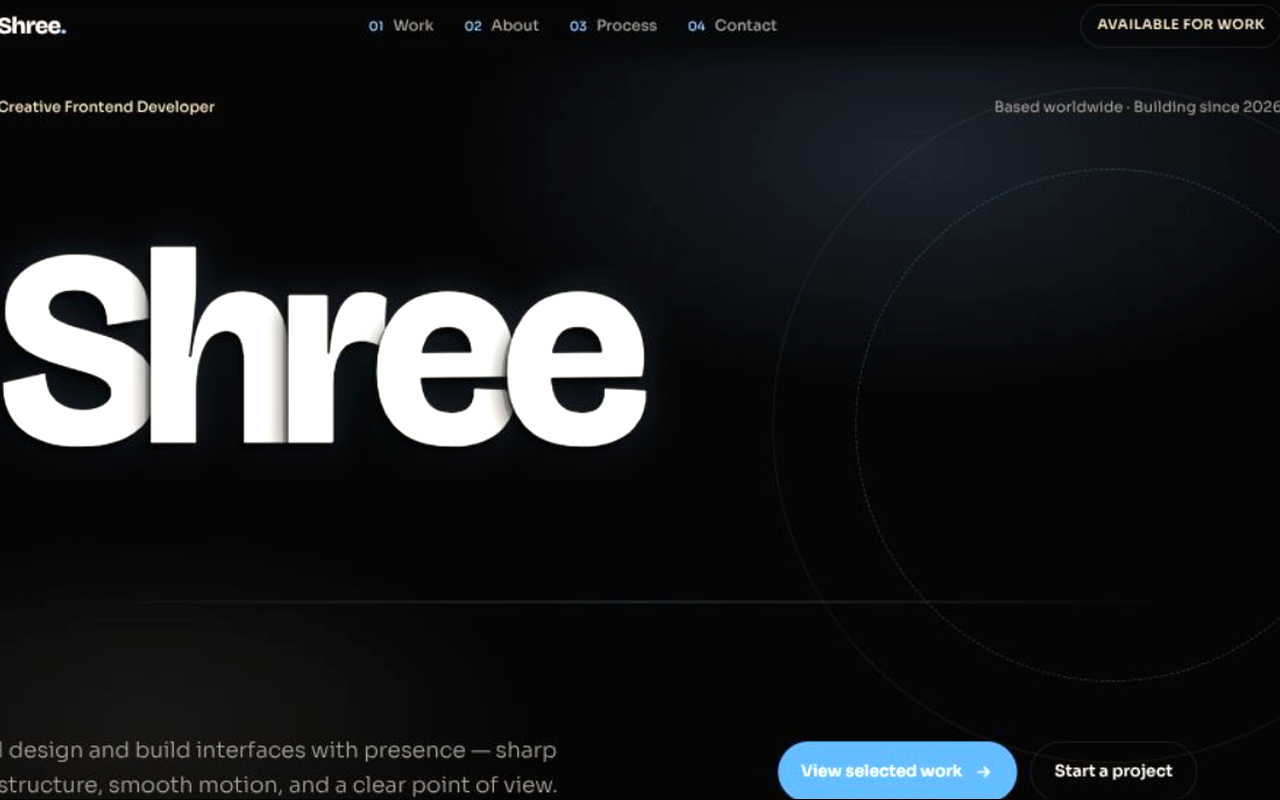
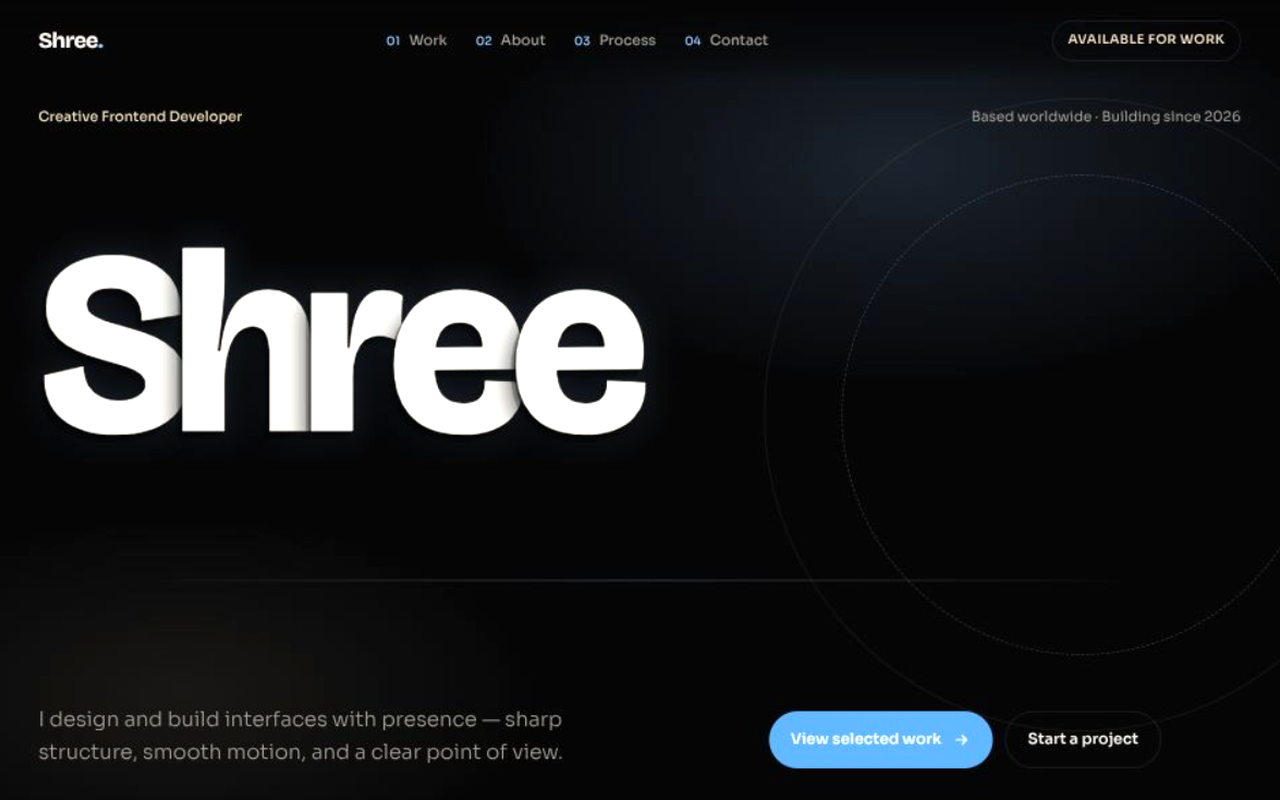
Update Portfolio work preview to the latest landing screenshot.
Replace the Work card image with the current Shree hero shot so the live site matches.

diff --git a/index.html b/index.html
@@ -13,7 +13,7 @@
   <link rel="preconnect" href="https://fonts.gstatic.com" crossorigin />
   <link href="https://fonts.googleapis.com/css2?family=Bricolage+Grotesque:opsz,wght@12..96,500;12..96,700;12..96,800&family=Sora:wght@300;400;500;600&family=IBM+Plex+Mono:wght@400;500&display=swap" rel="stylesheet" />
   <link rel="stylesheet" href="https://cdn.jsdelivr.net/npm/lenis@1.3.25/dist/lenis.css" />
-  <link rel="stylesheet" href="css/styles.css?v=20260829d" />
+  <link rel="stylesheet" href="css/styles.css?v=20260829e" />
 </head>
 <body>
   <div class="ascii-matrix-wrap" aria-hidden="true">
@@ -111,7 +111,7 @@
             </ul>
           </div>
           <div class="work-preview">
-            <img class="work-shot" src="assets/work/portfolio.png?v=20260829d" alt="Portfolio site preview" loading="lazy" decoding="async" />
+            <img class="work-shot" src="assets/work/portfolio.png?v=20260829e" alt="Portfolio site preview" loading="lazy" decoding="async" />
           </div>
           <span class="work-arrow" aria-hidden="true">↗</span>
         </a>
